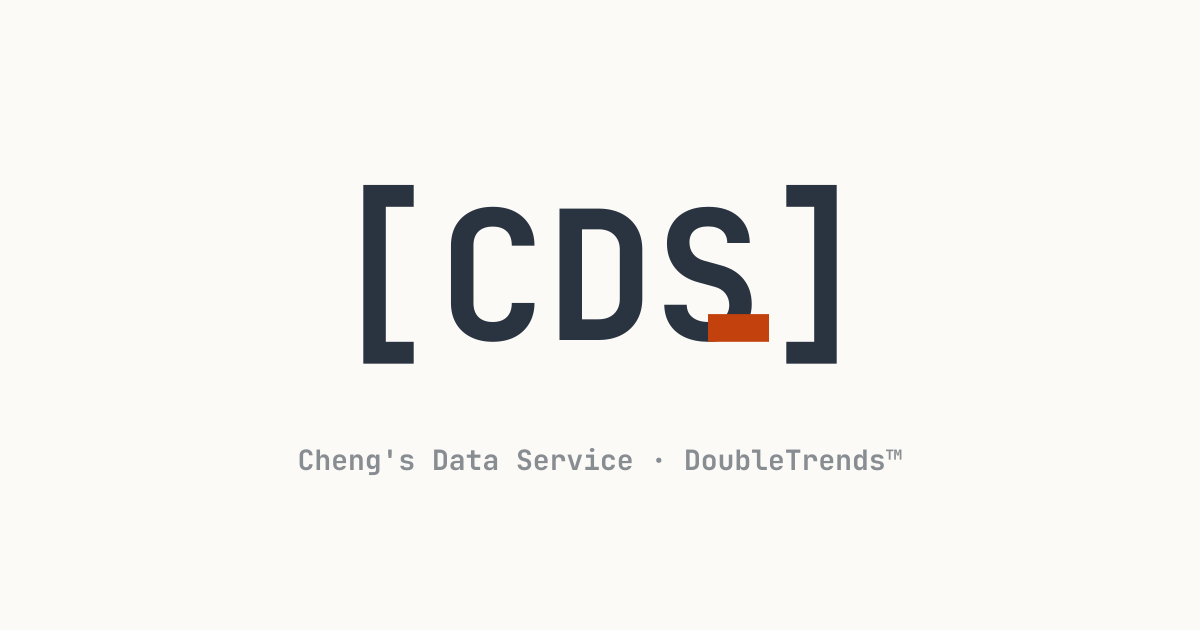
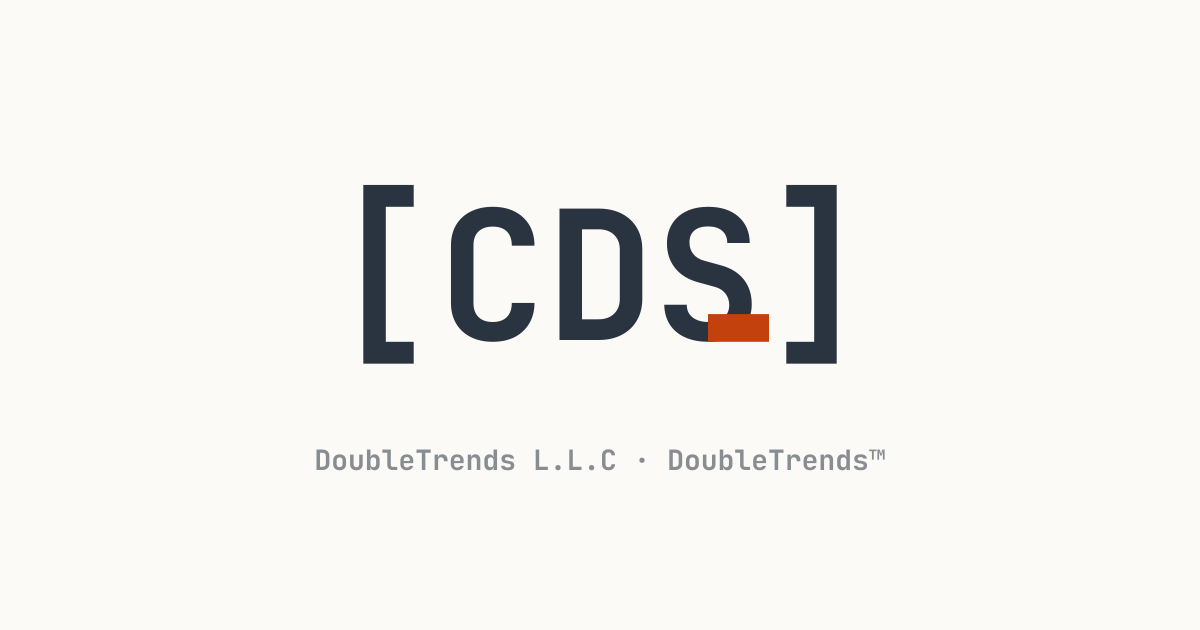
Update operator name to DoubleTrends L.L.C

Changed region(s): [[0.2467, 0.6937, 0.7708, 0.754]]

diff --git a/src/pages/legal/terms.html b/src/pages/legal/terms.html
@@ -10,7 +10,7 @@
 
 <div>
 <h2 class="article-h2">1. Introduction; Binding Acceptance</h2>
-<p class="prose-p">1.1. These Terms of Service, together with all documents expressly incorporated herein by reference (collectively, the &ldquo;<strong class="text-dark">Terms</strong>&rdquo;), constitute a legally binding agreement between you (&ldquo;<strong class="text-dark">you</strong>&rdquo;, &ldquo;<strong class="text-dark">your</strong>&rdquo;, or &ldquo;<strong class="text-dark">User</strong>&rdquo;) and Cheng&rsquo;s Data Service (&ldquo;<strong class="text-dark">we</strong>&rdquo;, &ldquo;<strong class="text-dark">us</strong>&rdquo;, or &ldquo;<strong class="text-dark">our</strong>&rdquo;), a private business operating from Ontario, Canada, which operates the DoubleTrends™ Service.</p>
+<p class="prose-p">1.1. These Terms of Service, together with all documents expressly incorporated herein by reference (collectively, the &ldquo;<strong class="text-dark">Terms</strong>&rdquo;), constitute a legally binding agreement between you (&ldquo;<strong class="text-dark">you</strong>&rdquo;, &ldquo;<strong class="text-dark">your</strong>&rdquo;, or &ldquo;<strong class="text-dark">User</strong>&rdquo;) and DoubleTrends L.L.C (&ldquo;<strong class="text-dark">we</strong>&rdquo;, &ldquo;<strong class="text-dark">us</strong>&rdquo;, or &ldquo;<strong class="text-dark">our</strong>&rdquo;), operating from Ontario, Canada, which operates the DoubleTrends™ Service.</p>
 <p class="prose-p">1.2. BY ACCESSING OR USING THE WEBSITE, BY CREATING OR ACTIVATING ACCESS, BY SUBSCRIBING, OR BY OTHERWISE USING ANY PART OF THE SERVICE, YOU ACKNOWLEDGE THAT YOU HAVE READ, UNDERSTOOD, AND AGREE TO BE BOUND BY THESE TERMS. IF YOU DO NOT AGREE TO THESE TERMS IN THEIR ENTIRETY, YOU MUST NOT ACCESS OR USE THE WEBSITE OR THE SERVICE.</p>
 <p class="prose-p">1.3. The following documents are incorporated into and form an integral part of these Terms as if set out in full herein: the <a href="{{ROOT}}legal/privacy.html" class="text-primary hover:underline">Privacy Policy</a>, the <a href="{{ROOT}}legal/disclaimer.html" class="text-primary hover:underline">Disclaimer</a>, and the <a href="{{ROOT}}legal/refund-policy.html" class="text-primary hover:underline">Refund Policy</a>. In the event of a conflict between these Terms and any incorporated document with respect to the subject matter of that document, the incorporated document governs to the extent of the conflict.</p>
 </div>

diff --git a/src/pages/legal/privacy.html b/src/pages/legal/privacy.html
@@ -10,7 +10,7 @@
 
 <div>
 <h2 class="article-h2">1. Scope; Definitions</h2>
-<p class="prose-p">1.1. This Privacy Policy (the &ldquo;<strong class="text-dark">Policy</strong>&rdquo;) governs the collection, use, disclosure, and retention of Personal Information by Cheng&rsquo;s Data Service (&ldquo;<strong class="text-dark">we</strong>&rdquo;, &ldquo;<strong class="text-dark">us</strong>&rdquo;, or &ldquo;<strong class="text-dark">our</strong>&rdquo;), which operates the DoubleTrends™ website and subscription service (the &ldquo;<strong class="text-dark">Service</strong>&rdquo;).</p>
+<p class="prose-p">1.1. This Privacy Policy (the &ldquo;<strong class="text-dark">Policy</strong>&rdquo;) governs the collection, use, disclosure, and retention of Personal Information by DoubleTrends L.L.C (&ldquo;<strong class="text-dark">we</strong>&rdquo;, &ldquo;<strong class="text-dark">us</strong>&rdquo;, or &ldquo;<strong class="text-dark">our</strong>&rdquo;), which operates the DoubleTrends™ website and subscription service (the &ldquo;<strong class="text-dark">Service</strong>&rdquo;).</p>
 <p class="prose-p">1.2. &ldquo;<strong class="text-dark">Personal Information</strong>&rdquo; means information about an identifiable individual, as that term is understood under Canada&rsquo;s <em>Personal Information Protection and Electronic Documents Act</em> (&ldquo;<strong class="text-dark">PIPEDA</strong>&rdquo;). This Policy is incorporated into and forms part of the <a href="{{ROOT}}legal/terms.html" class="text-primary hover:underline">Terms of Service</a>.</p>
 <p class="prose-p">1.3. By using the Service, you consent to the collection, use, and disclosure of your Personal Information as described in this Policy. Where required by law, we will obtain your consent at the time of collection; you may withdraw consent as described in Section 9, subject to legal and contractual restrictions and reasonable notice.</p>
 <p class="prose-p">1.4. We are responsible for Personal Information under our control. Privacy requests and complaints may be directed to <a href="mailto:info@doubletrends.com" class="text-primary hover:underline">info@doubletrends.com</a>.</p>

diff --git a/src/pages/legal/disclaimer.html b/src/pages/legal/disclaimer.html
@@ -10,7 +10,7 @@
 
 <div>
 <h2 class="article-h2">1. Scope and Incorporation</h2>
-<p class="prose-p">1.1. This Disclaimer applies to all use of the website operated by Cheng&rsquo;s Data Service (&ldquo;<strong class="text-dark">we</strong>&rdquo;, &ldquo;<strong class="text-dark">us</strong>&rdquo;, or &ldquo;<strong class="text-dark">our</strong>&rdquo;), which operates the DoubleTrends™ brand, and to all signals, notifications, content, data, and materials made available through it (collectively, the &ldquo;<strong class="text-dark">Service</strong>&rdquo;). Capitalized terms not defined herein have the meanings given in the <a href="{{ROOT}}legal/terms.html" class="text-primary hover:underline">Terms of Service</a>, into which this Disclaimer is incorporated and of which it forms an integral part.</p>
+<p class="prose-p">1.1. This Disclaimer applies to all use of the website operated by DoubleTrends L.L.C (&ldquo;<strong class="text-dark">we</strong>&rdquo;, &ldquo;<strong class="text-dark">us</strong>&rdquo;, or &ldquo;<strong class="text-dark">our</strong>&rdquo;), which operates the DoubleTrends™ brand, and to all signals, notifications, content, data, and materials made available through it (collectively, the &ldquo;<strong class="text-dark">Service</strong>&rdquo;). Capitalized terms not defined herein have the meanings given in the <a href="{{ROOT}}legal/terms.html" class="text-primary hover:underline">Terms of Service</a>, into which this Disclaimer is incorporated and of which it forms an integral part.</p>
 </div>
 
 <div>

diff --git a/src/pages/legal/refund-policy.html b/src/pages/legal/refund-policy.html
@@ -10,7 +10,7 @@
 
 <div>
 <h2 class="article-h2">1. Scope and Incorporation</h2>
-<p class="prose-p">1.1. This Refund Policy (the &ldquo;<strong class="text-dark">Policy</strong>&rdquo;) governs free trials, charges, cancellations, and refunds in respect of the DoubleTrends™ subscription service operated by Cheng&rsquo;s Data Service (&ldquo;<strong class="text-dark">we</strong>&rdquo;, &ldquo;<strong class="text-dark">us</strong>&rdquo;, or &ldquo;<strong class="text-dark">our</strong>&rdquo;). This Policy is incorporated into and forms an integral part of the <a href="{{ROOT}}legal/terms.html" class="text-primary hover:underline">Terms of Service</a>, and governs refunds to the exclusion of any other statement. Capitalized terms not defined herein have the meanings given in the Terms of Service.</p>
+<p class="prose-p">1.1. This Refund Policy (the &ldquo;<strong class="text-dark">Policy</strong>&rdquo;) governs free trials, charges, cancellations, and refunds in respect of the DoubleTrends™ subscription service operated by DoubleTrends L.L.C (&ldquo;<strong class="text-dark">we</strong>&rdquo;, &ldquo;<strong class="text-dark">us</strong>&rdquo;, or &ldquo;<strong class="text-dark">our</strong>&rdquo;). This Policy is incorporated into and forms an integral part of the <a href="{{ROOT}}legal/terms.html" class="text-primary hover:underline">Terms of Service</a>, and governs refunds to the exclusion of any other statement. Capitalized terms not defined herein have the meanings given in the Terms of Service.</p>
 </div>
 
 <div>

diff --git a/src/_partials/footer.html b/src/_partials/footer.html
@@ -14,7 +14,7 @@
         <p class="text-[0.65rem] leading-relaxed text-muted">
           DoubleTrends™ signals are provided for educational and informational purposes only and do not constitute financial, investment, or trading advice. Past performance does not guarantee future results.
         </p>
-        <span class="data-label mt-6">© 2026 Cheng&rsquo;s Data Service. All rights reserved.</span>
+        <span class="data-label mt-6">© 2026 DoubleTrends L.L.C. All rights reserved.</span>
       </div>
 
       <!-- Right: sitemap columns — each column shrinks to its widest line; a hairline divider

diff --git a/src/site.config.js b/src/site.config.js
@@ -8,9 +8,9 @@ const OG_IMAGE_ALT = 'CDS logo and DoubleTrends™ tagline';
 const PUBLISHER = {
   '@type': 'Organization',
   '@id': `${SITE_URL}/#organization`,
-  name: "Cheng's Data Service",
+  name: "DoubleTrends L.L.C",
   url: SITE_URL,
-  legalName: "Cheng's Data Service",
+  legalName: "DoubleTrends L.L.C",
   description: 'Operator of DoubleTrends™, a rules-based S&P 500 index signal and research site for ETF investors.',
   email: 'info@doubletrends.com',
   logo: {

diff --git a/src/_partials/head.html b/src/_partials/head.html
@@ -3,7 +3,7 @@
   <meta name="viewport" content="width=device-width, initial-scale=1.0" />
   <title>{{TITLE}}</title>
   <meta name="description" content="{{DESC}}" />
-  <meta name="author" content="Cheng's Data Service" />
+  <meta name="author" content="DoubleTrends L.L.C" />
   <meta name="application-name" content="DoubleTrends™" />
   <meta name="robots" content="{{ROBOTS}}" />
   <meta name="theme-color" content="#FBFAF7" />

diff --git a/build-brand.js b/build-brand.js
@@ -367,7 +367,7 @@ function buildOgImage(font) {
   // Tagline
   const taglineSize = 28;
   const taglineY = 470;
-  const tagline = "Cheng's Data Service · DoubleTrends™";
+  const tagline = "DoubleTrends L.L.C · DoubleTrends™";
   const tCellW = glyphMetrics(font, 'C', taglineSize).advance;
   const tTotal = tCellW * tagline.length;
   const tStartX = (vbW - tTotal) / 2;

diff --git a/build.js b/build.js
@@ -256,7 +256,7 @@ ${academyArticles}
 ## Entity Summary
 
 - Brand: DoubleTrends™
-- Operator: Cheng's Data Service
+- Operator: DoubleTrends L.L.C
 - Coverage: S&P 500 index
 - Intended audience: ETF investors using S&P 500 exposure such as VOO, SPY, or IVV
 - Delivery: Telegram alert
